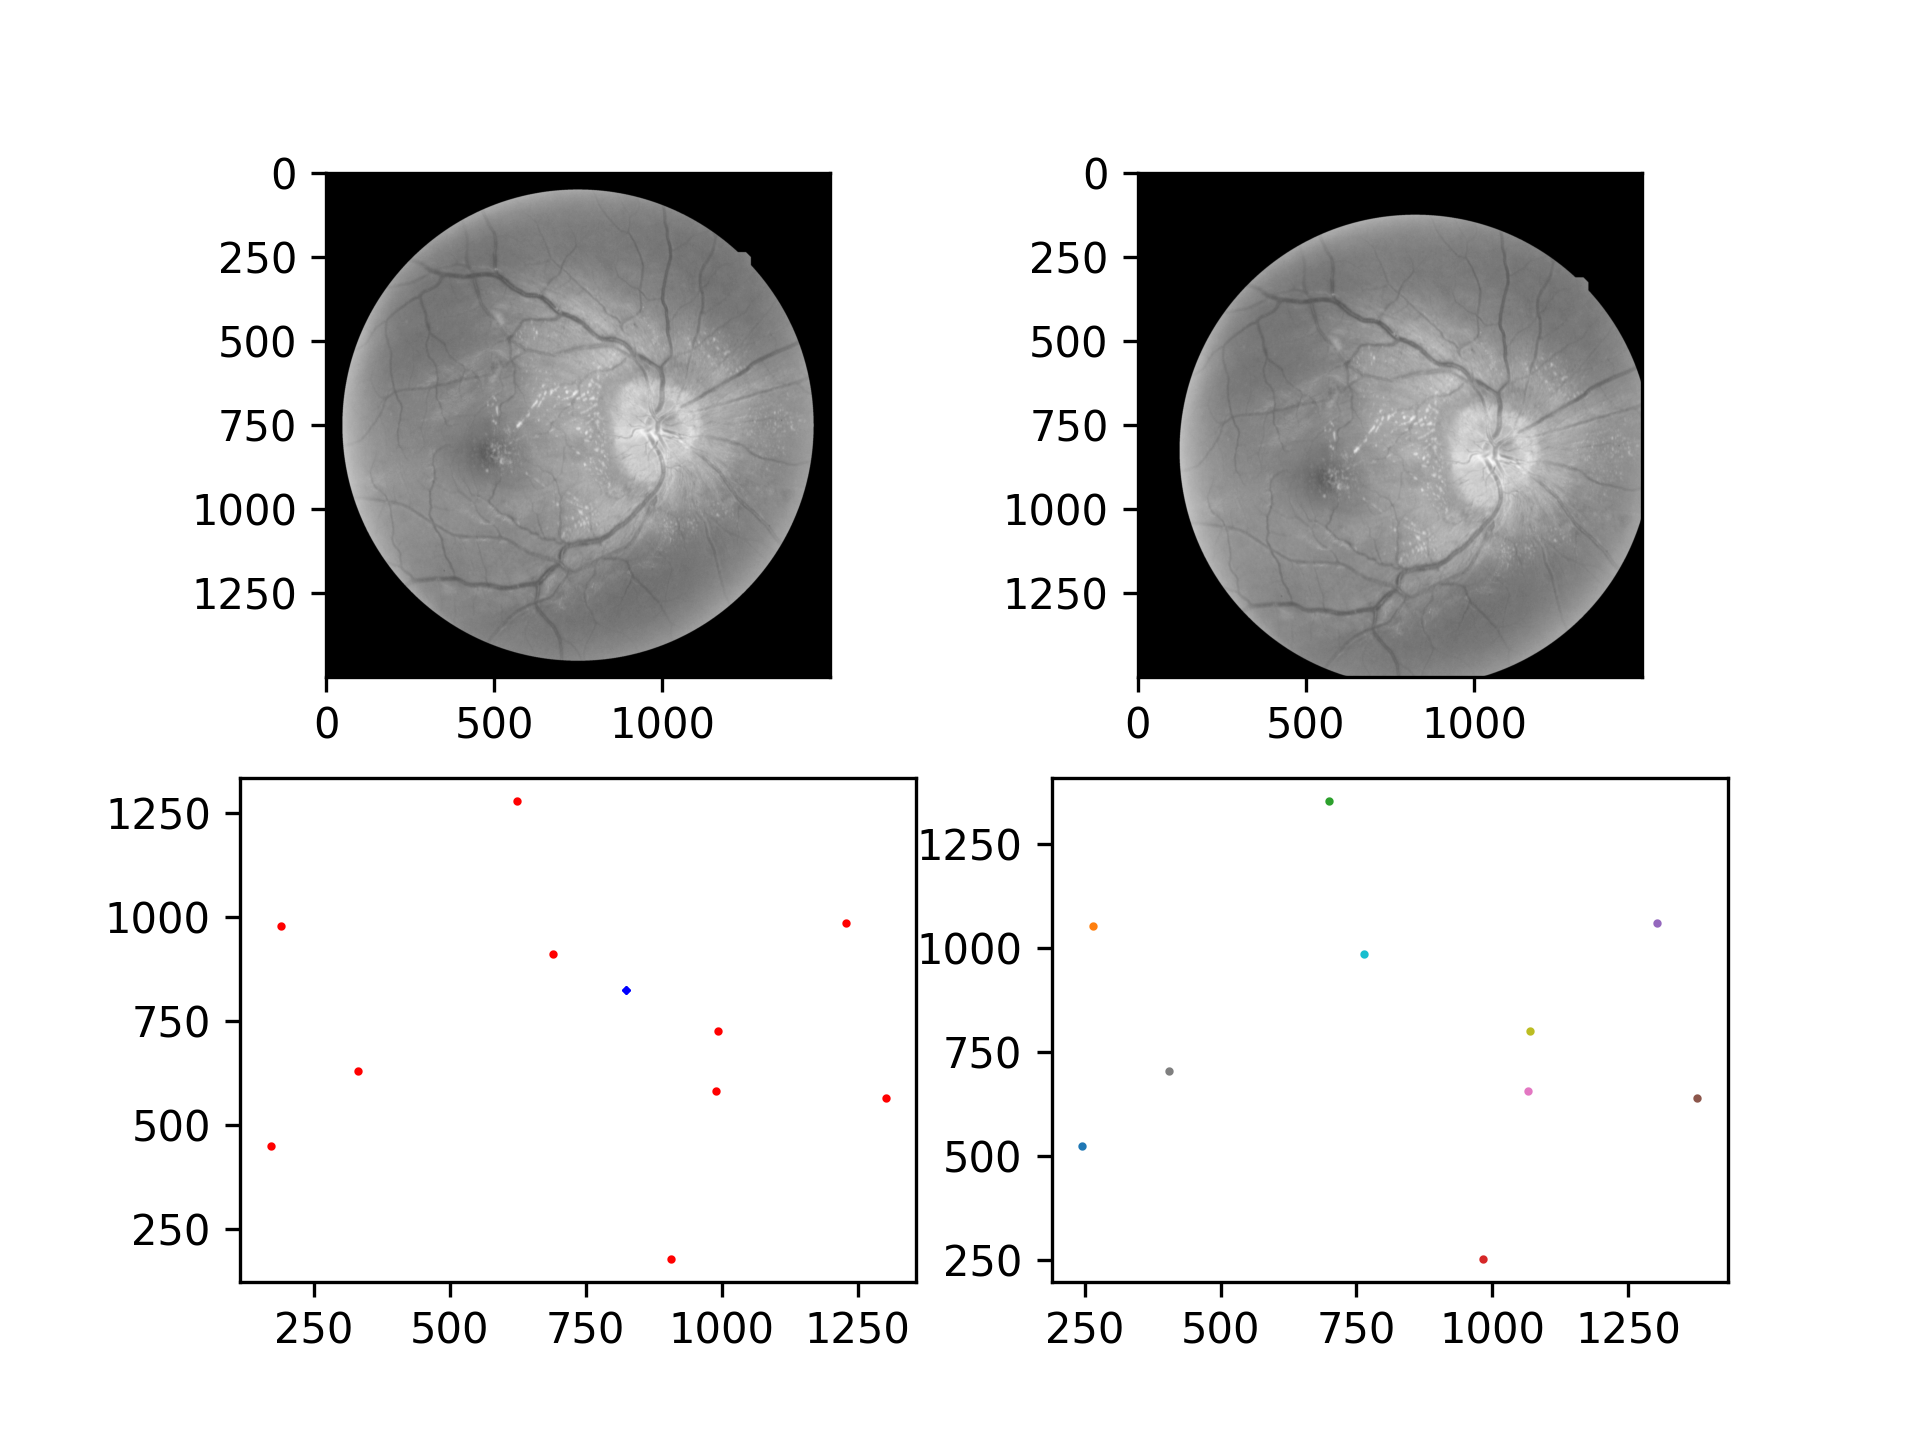
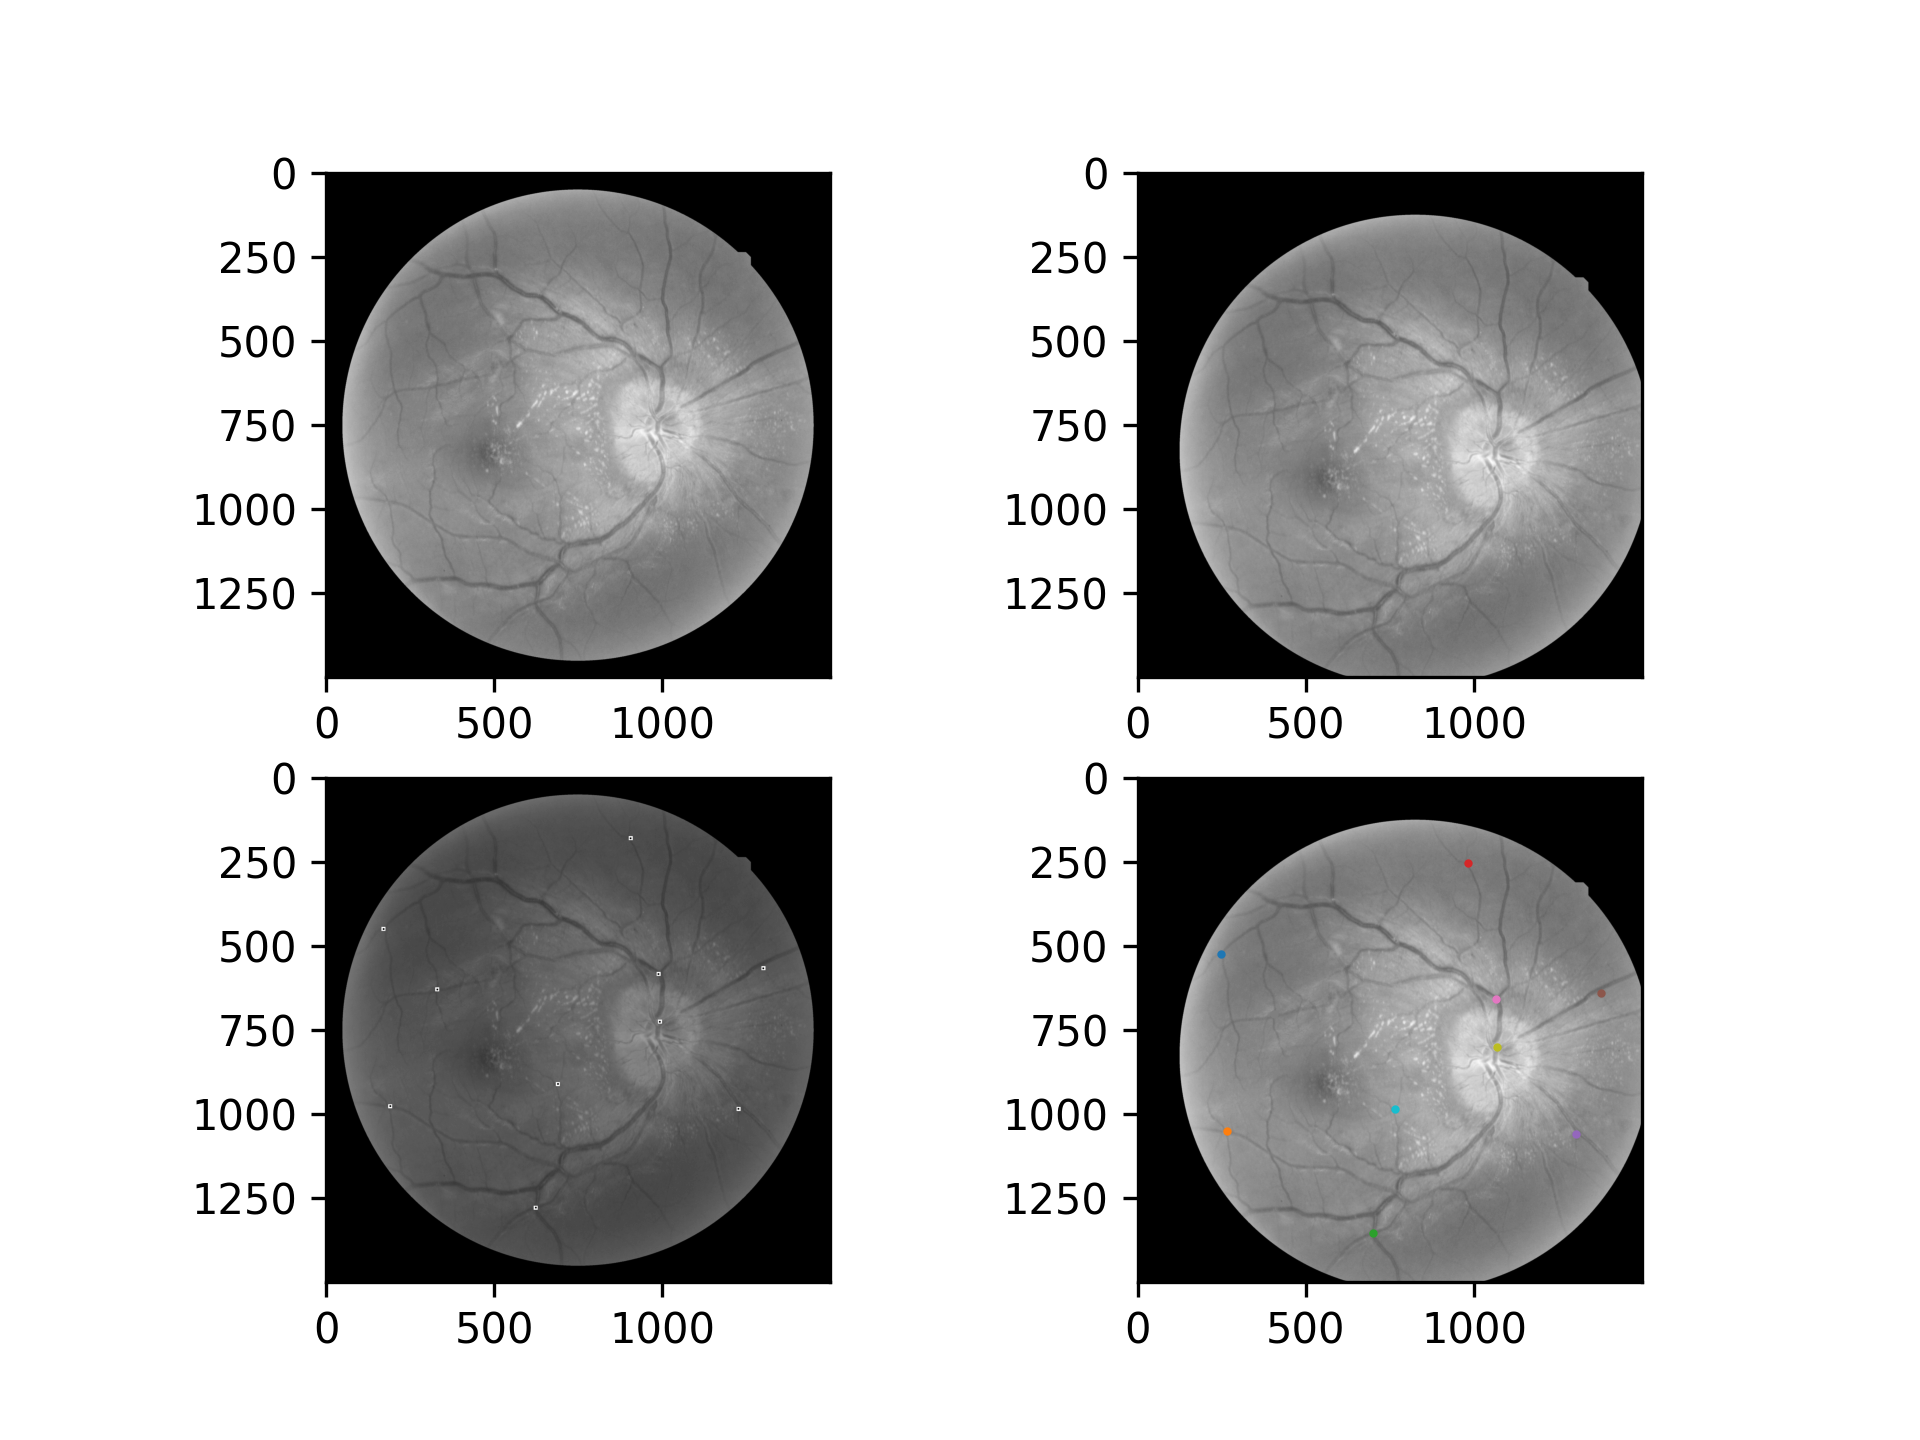
eval ok, review

Changed region(s): [[0.0625, 0.5312, 0.9062, 0.9375]]

diff --git a/utils/sept-david/v2.py b/utils/sept-david/v2.py
@@ -1,0 +1,144 @@
+from skimage.transform import rescale, resize, downscale_local_mean
+from skimage import io
+
+import numpy as np
+import torch
+from matplotlib import pyplot as plt
+from itertools import product
+
+#nothing changed
+def bilinear_interpolation(input_array, x_indices, y_indices):
+	# Convert indices from [-1, 1] to [0, width-1] or [0, height-1]
+	x_indices = (x_indices + 1) * (input_array.shape[0] - 1) * 0.5
+	y_indices = (y_indices + 1) * (input_array.shape[1] - 1) * 0.5
+	# Get the four surrounding pixel coordinates
+	x0 = torch.floor(x_indices).to(torch.long)
+	y0 = torch.floor(y_indices).to(torch.long)
+	x1 = x0 + 1
+	y1 = y0 + 1
+	# Clamp the coordinates to be within the image bounds
+	x0 = torch.clamp(x0, 0, input_array.shape[0] - 1)
+	y0 = torch.clamp(y0, 0, input_array.shape[1] - 1)
+	x1 = torch.clamp(x1, 0, input_array.shape[0] - 1)
+	y1 = torch.clamp(y1, 0, input_array.shape[1] - 1)
+	# Calculate the interpolation weights
+	x = x_indices - x0
+	y = y_indices - y0
+	# Perform bilinear interpolation
+	output = (
+		input_array[x0, y0] * (1 - x) * (1 - y) +
+		input_array[x1, y0] * x * (1 - y) +
+		input_array[x0, y1] * (1 - x) * y +
+		input_array[x1, y1] * x * y
+	)
+	return output
+
+
+
+def convert(input):
+	return (input +1) * (1500 - 1) * 0.5
+
+
+
+fixed = resize(io.imread("./A01_1.jpg", as_gray=True),(1500,1500))
+data = open("./control_points_A01_1_2.txt", "r")
+
+og_points = []
+mov_points = []
+for i in data:
+	choped = i.split(" ")
+	og_points.append((float(choped[0]),float(choped[1])))
+	mov_points.append((float(choped[2]),float(choped[3])))
+
+
+#create synthetic dfv
+df_simple = np.zeros((1500,1500,2))
+
+#should be bound between -1 and 1
+df_simple[:,:,0] = 0.1
+df_simple[:,:,1] = 0.1
+
+
+x_indices = df_simple[:,:,0]
+y_indices = df_simple[:,:,1]
+
+#convert from -1 to 1 to 0.. width and height
+x_indices = (x_indices +1) * (1500 - 1) * 0.5
+y_indices = (y_indices+ 1) * (1500 - 1) * 0.5
+
+
+mapx_base, mapy_base = np.meshgrid(np.arange(-1,1,2/1500), np.arange(-1,1,2/1500))
+
+mapx = mapx_base - 0.1
+mapy = mapy_base - 0.1
+
+
+
+dfs = np.stack([mapy, mapx], axis=2).reshape((2250000, 2)) # for the interp function
+dfsimple = np.stack([mapx, mapy], axis=2)#for addressing, easier for me
+
+
+
+moved = bilinear_interpolation( torch.from_numpy(fixed), torch.from_numpy(dfs[:, 0]), torch.from_numpy(dfs[:, 1])).reshape(1500,1500)
+
+fig, axs = plt.subplots(2, 2)
+
+axs[0,0].imshow(fixed,cmap="gray")
+axs[0,1].imshow(moved,cmap="gray")
+
+
+factor = 1500/2912
+plt.imshow(fixed)
+
+#we are going to plot  the moved points. Typically, these would be in the ground truth
+#file. However, since this transformation is synth we will create them as we
+#know the precise translations used
+moved_points = []
+
+axs[1,1].imshow(moved,cmap="gray")
+
+for i in og_points:
+
+	#why 75? the range is -1 to 1, meaning it has size of 2.
+	#we can imagine the image divided in 4 quadrans with the 0,0 in 
+	#the image center, which if its 1500x1500 would be at 750,750.
+	#All of this means that "0.1" in one direction is equivalent to
+	#(0.1*1500)/2 pixels, which is 75 for 1500
+	moved_points.append((i[0]*factor+75, i[1]*factor+75))
+	axs[1,1].scatter(i[0]*factor+75, i[1]*factor+75,s=1)
+
+
+
+
+arr1 = [-2,-1,0,1,2]
+arr2 = [-5,-4,-3,-2,-1,0,1,2,3,4,5,6]
+
+k = list(product(arr2, arr2)) #diferentes tamaños para que se vexan mellor
+#plot the original fixed points
+for i in og_points:
+	for kp in k:
+		fixed[int(np.round(i[1]*factor))-kp[0]][int(np.round(i[0]*factor))-kp[1]] = 1
+
+k = list(product(arr1, arr1))
+for i in moved_points:
+
+	xn, yn = dfsimple[int(np.round(i[0])), int(np.round(i[1])),:]
+	xn = convert(xn)
+	yn = convert(yn)
+
+	for kp in k:
+		fixed[int(np.round(xn))-kp[0]][int(np.round(yn))-kp[1]] = 0
+
+
+
+
+axs[1,0].imshow(fixed,cmap="gray")
+
+
+
+
+
+plt.savefig("./test_scatter2.png", dpi=300)
+plt.close()
+
+
